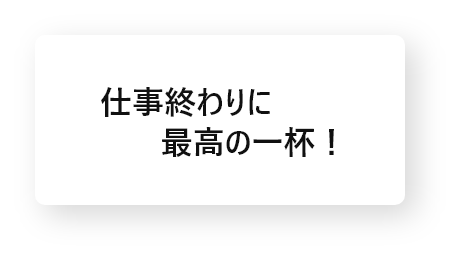
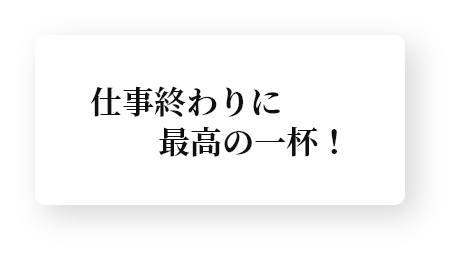
[update] フォントダウンロード後に変化のあった画像を差し替え

Changed region(s): [[0.1826, 0.3385, 0.6087, 0.4615], [0.3348, 0.4923, 0.7304, 0.6154]]

diff --git a/index.html b/index.html
@@ -45,7 +45,7 @@
       <div class="campaign_container">
         <section class="campaign_main_section">
           <div class="limited_pack_title">
-            <h2><img src="./assets/img/limited_pack_title.svg" width="514" height="96" alt="父の日限定パック"></h2>
+            <h2><img src="./assets/img/limited_pack_title.png" width="576" height="138" alt="父の日限定パック"></h2>
           </div>
           <div class="section1_fruits_left">
             <img src="./assets/img/section1_fruits_left.png" width="191" height="190" alt="スターフルーツ">
@@ -117,7 +117,7 @@
       <div class="campaign_container">
         <section class="campaign_main_section">
           <div class="limited_pack_title">
-            <h2><img src="./assets/img/limited_pack_title.svg" width="514" height="96" alt="父の日限定パック"></h2>
+            <h2><img src="./assets/img/limited_pack_title.png" width="576" height="138" alt="父の日限定パック"></h2>
           </div>
           <img class="section2_fruits_leftup" src="./assets/img/section2_fruits_leftup.png" width="382" height="311" alt="バナナとグレープフルーツとスターフルーツ">
           <div class="limited_middle_section_second">

diff --git a/assets/stylesheet.css b/assets/stylesheet.css
@@ -247,7 +247,7 @@ header {
 }
 
 .limited_middle_section {
-  background-image: url("./img/campaign_text.svg"), url("./img/background.jpg");
+  background-image: url("./img/campaign_text.png"), url("./img/background.jpg");
   background-repeat: no-repeat;
   background-position: left 6.8% top 0%, center;
   background-size: 50%, cover;
@@ -305,11 +305,11 @@ header {
   background-image: url("./img/limited_pack_text1.svg"), url("./img/limited_pack_text2.svg"), url("./img/limited_pack_text3.svg"), url("./img/background.jpg");
   background-repeat: no-repeat;
   background-position: left 1% top 20%, left 15% top 28%, left 90% top 5%, center;
+  margin-top: -12%;
 }
 
 .limited_pack_image_second {
   position: static;
-  margin-top: -12%;
   margin-left: 14.7%;
   padding-top: 4.5%;
 }
